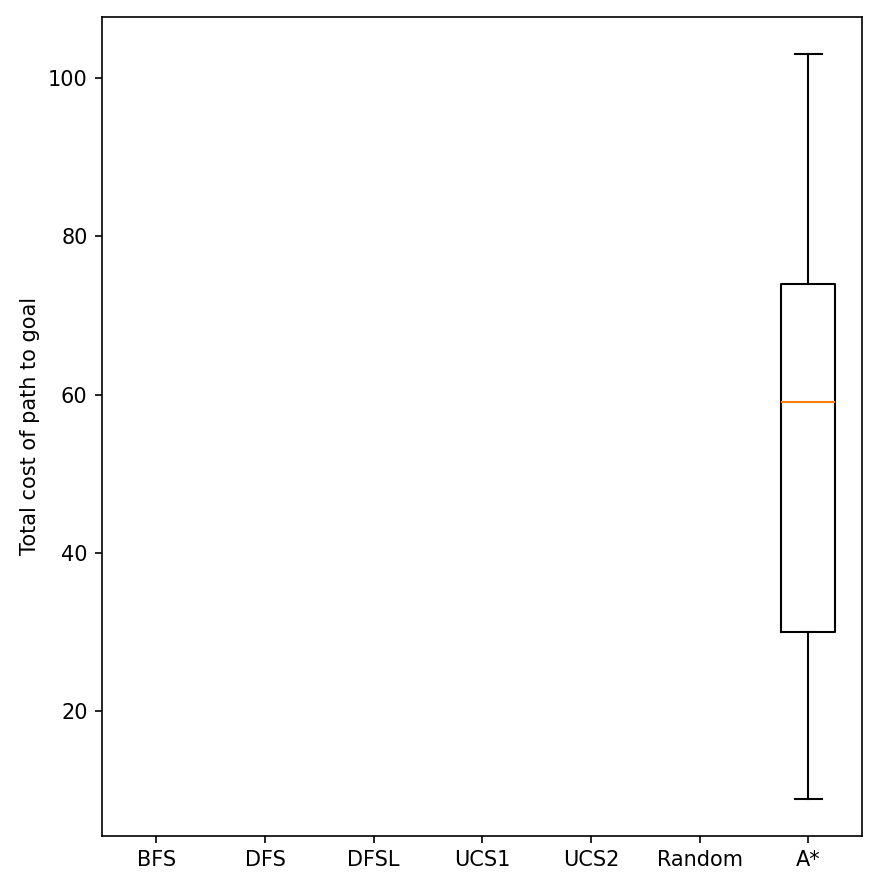
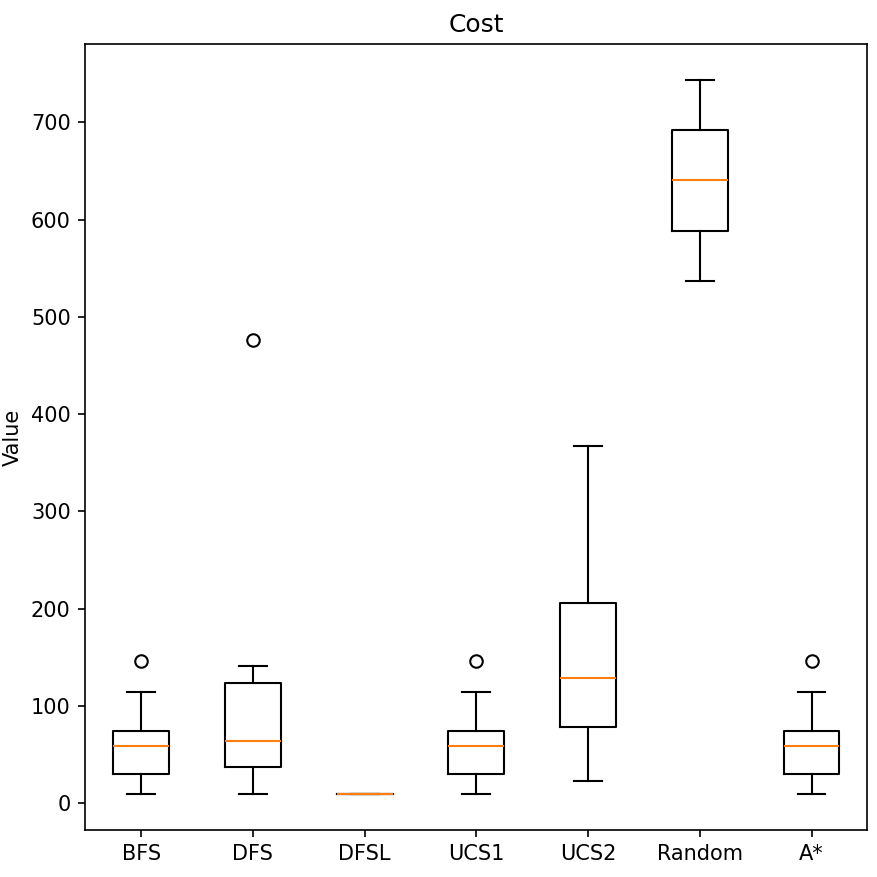
Properly limit number of steps

diff --git a/tp4-busquedas-informadas/code/main.py b/tp4-busquedas-informadas/code/main.py
@@ -8,7 +8,7 @@ import heapq
 import gymnasium as gym
 import json
 
-def generate_random_map_custom(size=8, p=0.8, max_steps=None):
+def generate_random_map_custom(size=8, p=0.8):
     """
     Generates a random valid map (one that has a path from start to goal)
     :param size: size of each side of the grid
@@ -36,13 +36,15 @@ def generate_random_map_custom(size=8, p=0.8, max_steps=None):
     
     # Convert the map to a list of strings
     desc = ["".join(row) for row in m]
+
+    env = gym.make('FrozenLake-v1', desc=desc, is_slippery=False, render_mode='ansi')
     
     # Create a new environment
-    env = gym.make("FrozenLake-v1", desc=desc, is_slippery=False, render_mode='ansi')
+    # env = gym.make("FrozenLake-v1", render_mode='ansi')
     
     # Set the maximum number of steps
-    if max_steps is not None:
-        env.spec.max_episode_steps = max_steps
+    # if max_steps is not None:
+    #     env.spec.max_episode_steps = max_steps
     
     return env
 
@@ -76,10 +78,10 @@ def bfs(env, start, goal, max_steps):
     while not queue.empty():
         (state, path) = queue.get()
         
-        if state == goal:
+        if state == goal and len(path) < max_steps:
             return path, len(visited)
         
-        if state not in visited and len(visited) < max_steps:
+        if state not in visited:
             visited.add(state)
             
             for action in range(4):  # 0: LEFT, 1: DOWN, 2: RIGHT, 3: UP
@@ -96,10 +98,10 @@ def dfs(env, start, goal, depth_limit=None, max_steps=None):
     while stack:
         (state, path) = stack.pop()
         
-        if state == goal:
+        if state == goal and len(path) < max_steps:
             return path, len(visited)
         
-        if state not in visited and (depth_limit is None or len(path) < depth_limit) and len(visited) < max_steps:
+        if state not in visited and (depth_limit is None or len(path) < depth_limit):
             visited.add(state)
             
             for action in range(4):  # 0: LEFT, 1: DOWN, 2: RIGHT, 3: UP
@@ -117,10 +119,10 @@ def ucs(env, start, goal, cost_func, max_steps):
     while not pq.empty():
         (cost, state, path) = pq.get()
         
-        if state == goal:
+        if state == goal and len(path) < max_steps:
             return path, len(visited)
         
-        if state not in visited and len(visited) < max_steps:
+        if state not in visited:
             visited.add(state)
             
             for action in range(4):  # 0: LEFT, 1: DOWN, 2: RIGHT, 3: UP
@@ -171,10 +173,10 @@ def astar_search(env, start, goal, max_steps):
     visited = set()
     g_scores = {start: 0}
     
-    while frontier and len(visited) < max_steps:
+    while frontier:
         _, current, path = heapq.heappop(frontier)
         
-        if current == goal:
+        if current == goal and len(path) < max_steps:
             return path, len(visited)
         
         if current in visited:
@@ -222,7 +224,7 @@ def run_search_algorithm(env, algorithm, start, goal, cost_func=None, depth_limi
     
     return path, explored, cost, end_time - start_time
 
-def run_experiments(num_trials=30, grid_size=100, p_frozen=0.92, max_steps=10000):
+def run_experiments(num_trials=30, grid_size=100, p_frozen=0.92, max_steps=1000):
     np.random.seed(42)
     
     algorithms = ['BFS', 'DFS', 'DFSL', 'UCS1', 'UCS2', 'Random', 'A*']
@@ -231,7 +233,7 @@ def run_experiments(num_trials=30, grid_size=100, p_frozen=0.92, max_steps=10000
     csv_data = []
 
     for env_n in tqdm(range(num_trials)):
-        env = generate_random_map_custom(size=grid_size, p=p_frozen, max_steps=max_steps)
+        env = generate_random_map_custom(size=grid_size, p=p_frozen)
         start, _ = env.reset()
 
         for alg in algorithms:    
@@ -253,7 +255,7 @@ def run_experiments(num_trials=30, grid_size=100, p_frozen=0.92, max_steps=10000
                 path, explored, cost, time_taken = run_search_algorithm(env, 'Random', start, goal, max_steps=max_steps)
             elif alg == 'A*':
                 path, explored, cost, time_taken = run_search_algorithm(env, 'A*', start, goal, max_steps=max_steps)
-                            
+                
             solution_found = path is not None
             results[alg]['explored'].append(explored)
             results[alg]['cost'].append(cost)
@@ -292,6 +294,7 @@ def visualize_path(env, start, path, delay=0.5):
 
     for action in path:
         _, _, terminated, truncated, _ = env.step(action)
+
         env.render()
         time.sleep(delay)
         if terminated or truncated:
@@ -302,15 +305,30 @@ def visualize_path(env, start, path, delay=0.5):
 def plot_results(results):
     fig, axes = plt.subplots(1, 3, figsize=(18, 6))
     
-    for i, metric in enumerate(['explored', 'cost', 'time']):
-        data = [results[alg][metric] for alg in results]
-        axes[i].boxplot(data, tick_labels=list(results.keys()))
-        axes[i].set_title("")
-    axes[0].set_ylabel('Number of states explored')
-    axes[1].set_ylabel('Total cost of path to goal')
-    axes[2].set_ylabel('Time taken to find goal (in seconds)')
-    # print(data)
-    # print(axes)
+    metrics = ['explored', 'cost', 'time']
+    titles = ['Explored States', 'Cost', 'Time']
+    ylabels = ['Count', 'Value', 'Seconds']
+    
+    for i, metric in enumerate(metrics):
+        filtered_data = []
+        labels = []
+        
+        for alg in results:
+            # Filter out data points where no solution was found
+            valid_data = [results[alg][metric][j] for j in range(len(results[alg][metric])) 
+                          if results[alg]['cost'][j] != float('inf')]
+            
+            if valid_data:  # Only add to plot if there's valid data
+                filtered_data.append(valid_data)
+                labels.append(alg)
+        
+        if filtered_data:  # Only create plot if there's data to plot
+            axes[i].boxplot(filtered_data, tick_labels=labels)
+            axes[i].set_title(titles[i])
+            axes[i].set_ylabel(ylabels[i])
+            axes[i].set_xticklabels(labels)
+        else:
+            axes[i].text(0.5, 0.5, 'No valid data', ha='center', va='center')
     
     plt.tight_layout()
     plt.show()
@@ -327,7 +345,10 @@ results = run_experiments()
 # Plot results
 plot_results(results)
 
-# env = generate_random_map_custom(size=10, p=0.92, max_steps=100)
+# desc = generate_random_map_custom(size=10, p=0.92)
+# env = gym.make('FrozenLake-v1', desc=desc, is_slippery=False, render_mode='ansi').env
+# env = wrappers.TimeLimit(env, 100)
+    
 # start, _ = env.reset()
 # print(f"Start: {start}")
         
@@ -335,11 +356,11 @@ plot_results(results)
 # goal = np.where(desc == b'G')[0][0]
 # print(f"Goal: {goal}")
 
-# path, explored, cost, time_taken = run_search_algorithm(env, 'A*', start, goal, max_steps=1000)
+# path, explored, cost, time_taken = run_search_algorithm(env, 'DFS', start, goal, max_steps=10)
 # print(f"Path: {path}")
 # print(f"Total states explored: {explored}")
 # print(f"Total cost: {cost}")
 # print(f"Time taken: {time_taken}")
 
-# visualize_path(env, start, path, 0.2)
+#visualize_path(env, start, path, 0.2)
 

diff --git a/tp4-busquedas-informadas/tp3y4-reporte.md b/tp4-busquedas-informadas/tp3y4-reporte.md
@@ -64,7 +64,7 @@ Donde c(n, a, n') es el costo de la acción a.
 
 La consistencia implica admisibilidad y garantiza que A* nunca necesitará reabrir nodos cerrados, lo que mejora su eficiencia.
 
-### Desigualdad triangular
+#### Desigualdad triangular
 
 El concepto de consistencia está estrechamente relacionado con la desigualdad triangular en matemáticas. La desigualdad triangular establece que la suma de las longitudes de dos lados de un triángulo siempre debe ser mayor o igual que la longitud del tercer lado.
 
@@ -107,32 +107,18 @@ En las siguientes 3 imágenes es posible observar los resultados obtenidos para 
 
 ![](./images/figura1.png)
 <p align="center">Figura 1</p>
-En la figura superior, se representa el número total de estados explorados. Es posible observar que, al estar la cantidad máxima de pasos limitada a 1000, resulta ser muy reducida la cantidad total de pasos que se encuentran dentro del rango establecido, siendo el algoritmo A* el que más estados explora dentro del límite de pasos establecido.
+En la figura superior, se representa el número total de estados explorados. Es posible observar que los algoritmos BFS y UCS1 presentan resultados idénticos, así como que los algoritmos DFSL y Random prácticamente no exploran estados.
 
 ![](./images/figura2.png)
 <p align="center">Figura 2</p>
-Confirmando los resultados observados en la Figura 1, la Figura 2 muestra que únicamente el algoritmo A* encuentra objetivos dentro del rango de los 1000 pasos máximos, en indica el rango de variación del costo de los caminos encontrados. El resto de los algoritmos, al no haber encontrado el objetivo, no muestran información alguna relativa al costo.
+La Figura 2 permite observar el costo total de los caminos obtenidos por cada algoritmo, que llegan correctamente al objetivo. Notamos acá que para los algoritmos BFS, UCS1 y A* la distribución de los costos es la misma, que el algoritmo DFSL prácticamente no tiene valores debido a la limitación de profundidad establecida, y que el algoritmo Random obtiene los peores resultados de costo por mucha diferencia.
 
 ![](./images/figura3.png)
 <p align="center">Figura 3</p>
-La Figura 3 indica el tiempo total empleado por las distintas iteraciones al intentar encontrar un objetivo. Ignorando el algoritmo de búsqueda en profundidad limitada (ya que siempre obtendrá un tiempo menor al resto por estar limitado su recorrido), es posible destacar el rendimiento del algoritmo A*, cuyos peores casos se mentienen por debajo de los 0.01s.
-
-Las siguientes 3 figuras se obtuvieron al extender a 10000 la cantidad máxima de pasos que un agente puede realizar, con el objetivo de permitir que algoritmos presumiblemente "menos eficientes" alcancen el objetivo una mayor cantidad de veces. 
-
-![](./images/figura4.png)
-<p align="center">Figura 4</p>
-Los resultados ilustrados en la Figura 4 indican una clara superioridad del algoritmo A* frente al resto, al encontrar los objetivos correspondientes sin necesidad de explorar un tamaño grande de estados, como también se había resaltado al analizar los resultados de la Figura 1 anteriormente. El algoritmo de búsqueda en profundidad limitada (DFSL), como su nombre lo indica, tiene definido un valor máximo de profundidad que lo hace parecer "muy rápido" en esta comparación, pero debe mantenerse siempre presente el verdadero motivo detrás de este resultado (la limitación de profundidad).
-
-![](./images/figura5.png)
-<p align="center">Figura 5</p>
-En la Figura 5 volvemos a ver representado el rango de variación en el costo total del camino para cada iteración, donde esta vez todos los algoritmos, a excepción del DFSL y el Random, encuentran algún objetivo. Observamos que los algoritmos BFS, UCS1 y A* obtienen resultados idénticos, mientras que el algoritmo DFS obtiene el peor de los resultados con mucha diferencia, siendo también lo esperado.
-
-![](./images/figura6.png)
-<p align="center">Figura 6</p>
-La última figura (Figura 6), permite visualizar el rango de variación del tiempo empleado por cada algoritmo para encontrar un objetivo, en cada iteración. Nuevamente, podemos destacar el rendimiento del algoritmo A* y observar la notable diferencia que presenta con el algoritmo DFS, en este caso el de peor resultado entre todos.
+La Figura 3 indica el tiempo total empleado por las distintas iteraciones al intentar encontrar un objetivo. Ignorando el algoritmo de búsqueda en profundidad limitada (ya que siempre obtendrá un tiempo menor al resto por estar limitado su recorrido), es posible destacar el rendimiento del algoritmo A*, cuyos peores casos se mentienen por debajo de los 0.05s. El peor caso, por otro lado, es obtenido por el algoritmo DFS con una demora máxima de poco más de 0.5s, es decir, más de 10 veces el mayor tiempo de ejecución correspondiente al algoritmo A*.
 
 ### **CONCLUSIÓN**
 
-Basándome en los datos analizados en los apartados anteriores, considero que el algoritmo de búsqueda informada A* resulta ser el más adecuado para resolver el problema, ya que, además de ser el único capaz de llegar al objetivo en menos de 1000 pasos, es también aquel que lo logra en el menor tiempo posible. 
+Basándome en los datos analizados en los apartados anteriores, considero que el algoritmo de búsqueda informada A* resulta ser el más adecuado para resolver el problema, ya que, además de requerir la menor cantidad de estados visitados para llegar a un objetivo, es también aquel que logra encontrarlos en el menor tiempo posible. 
 
-Por otro lado, los gráficos representados dan cuenta del mal rendimiento del algoritmo DFS, por lo cual remarca que la necesidad de recurrir a este algoritmo debe basarse estrictamente en término de optimizar el espacio en memoria utilizado y no el tiempo. 
+Por otro lado, los gráficos representados dan cuenta del mal rendimiento del algoritmo DFS, lo cual permite confirmar que la necesidad de recurrir a este algoritmo debe basarse estrictamente en una necesidad de optimizar el espacio en memoria utilizado y no el tiempo. 
